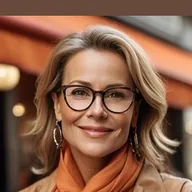
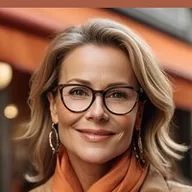
Аватарки: лицо 03 мельче, лицо 04 крупнее на 10%, цвет полей по верхней полоске фото

diff --git a/tools/generators/make_avatars.py b/tools/generators/make_avatars.py
@@ -8,8 +8,8 @@ from PIL import Image, ImageStat
 CROPS = {
     1: (-65, -25, 785, 825),      # prof-1: мужчина с седыми волосами (736x977), голова целиком
     2: (-275, -75, 1355, 1555),   # prof-2: мужчина в очках (1080x1920)
-    3: (-27, 7, 498, 532),        # prof-3: мужчина с бородой (474x711)
-    4: (252, -18, 472, 202),      # prof-4: женщина (643x360)
+    3: (-80, -45, 550, 585),      # prof-3: мужчина с бородой (474x711), лицо мельче (кадр шире на 20%)
+    4: (262, -8, 462, 192),       # prof-4: женщина (643x360), лицо крупнее на 10%
 }
 
 src_dir = os.path.join("img", "avatars", "source")
@@ -36,8 +36,9 @@ for n in range(1, 5):
     if box:
         l, t, r, b = box
         side = r - l
-        edge = [im.crop((0, 0, w, 6)), im.crop((0, h - 6, w, h)), im.crop((0, 0, 6, h)), im.crop((w - 6, 0, w, h))]
-        fill = tuple(int(sum(ImageStat.Stat(e).median[i] for e in edge) / 4) for i in range(3))
+        # цвет фона берём по верхней полоске (низ кадра часто занят одеждой и тёмный)
+        top_strip = im.crop((0, 0, w, 8))
+        fill = tuple(int(v) for v in ImageStat.Stat(top_strip).median)
         canvas = Image.new("RGB", (side, side), fill)
         canvas.paste(im, (-l, -t))          # части кадра за пределами фото заполняются цветом фона
         im = canvas.resize((192, 192), Image.LANCZOS)
